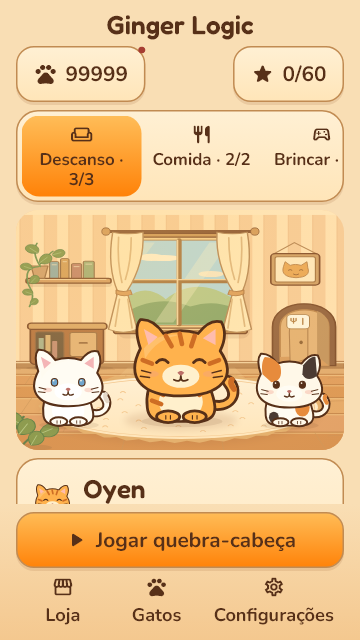
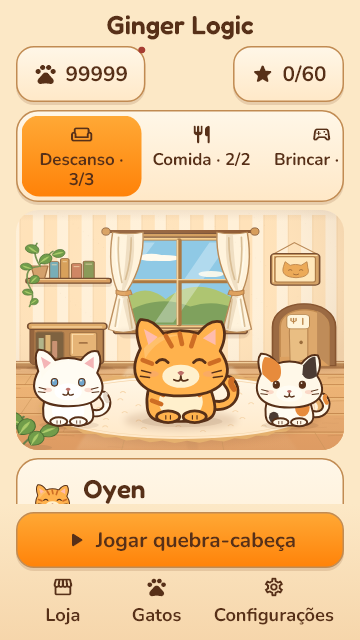
style: add material lighting and restore lounge color contrast

diff --git a/lib/game/render/v2/lounge_lighting.dart b/lib/game/render/v2/lounge_lighting.dart
@@ -1,0 +1,124 @@
+import 'dart:ui';
+
+/// Directional light and restrained material grain in the 390-unit room.
+/// Painted behind decor/actors so blue glass, foliage and fur keep their color.
+void paintLoungeLighting(Canvas canvas) {
+  const wall = Rect.fromLTWH(0, 0, 390, 257);
+  final plaster = Path()
+    ..fillType = PathFillType.evenOdd
+    ..addRect(wall)
+    ..addRRect(
+      RRect.fromRectAndRadius(
+        const Rect.fromLTWH(130, 48, 130, 140),
+        const Radius.circular(3),
+      ),
+    );
+  canvas.save();
+  canvas.clipPath(plaster);
+  canvas.drawRect(
+    wall,
+    Paint()
+      ..shader = Gradient.radial(
+        const Offset(150, 84),
+        275,
+        [
+          const Color(0x22FFFBEE),
+          const Color(0x00FFFBEE),
+          const Color(0x2384583E),
+        ],
+        [0, .5, 1],
+      ),
+  );
+  canvas.drawRect(
+    const Rect.fromLTWH(0, 0, 390, 18),
+    Paint()
+      ..shader = Gradient.linear(const Offset(0, 0), const Offset(0, 18), [
+        const Color(0x187A4A2B),
+        const Color(0x007A4A2B),
+      ]),
+  );
+  final plasterGrain = Paint()..color = const Color(0x11875D38);
+  for (var i = 0; i < 180; i++) {
+    final x = (i * 97.123 + 7) % 390;
+    final y = (i * 47.791 + 13) % 257;
+    canvas.drawCircle(Offset(x, y), i.isEven ? .45 : .7, plasterGrain);
+  }
+  canvas.restore();
+
+  const floor = Rect.fromLTWH(0, 253, 390, 137);
+  canvas.save();
+  canvas.clipRect(floor);
+  canvas.drawRect(
+    floor,
+    Paint()
+      ..shader = Gradient.linear(
+        const Offset(0, 257),
+        const Offset(0, 390),
+        [
+          const Color(0x24854B2F),
+          const Color(0x00854B2F),
+          const Color(0x16854B2F),
+        ],
+        [0, .22, 1],
+      ),
+  );
+  final sun = Path()
+    ..moveTo(134, 254)
+    ..lineTo(257, 254)
+    ..lineTo(335, 390)
+    ..lineTo(71, 390)
+    ..close();
+  canvas.drawPath(
+    sun,
+    Paint()
+      ..shader = Gradient.linear(
+        const Offset(190, 255),
+        const Offset(220, 390),
+        [const Color(0x50FFF6DC), const Color(0x0CFFF6DC)],
+      )
+      ..maskFilter = const MaskFilter.blur(BlurStyle.normal, 2),
+  );
+  final mullion = Path()
+    ..moveTo(191, 254)
+    ..lineTo(197, 254)
+    ..lineTo(217, 390)
+    ..lineTo(204, 390)
+    ..close();
+  canvas.drawPath(
+    mullion,
+    Paint()
+      ..color = const Color(0x128F6747)
+      ..maskFilter = const MaskFilter.blur(BlurStyle.normal, 1.5),
+  );
+  final grain = Paint()
+    ..color = const Color(0x239A633B)
+    ..style = PaintingStyle.stroke
+    ..strokeWidth = .7
+    ..strokeCap = StrokeCap.round;
+  for (var i = 0; i < 24; i++) {
+    final x = (i * 67.31) % 390;
+    final y = 263 + (i * 19.37) % 123;
+    canvas.drawPath(
+      Path()
+        ..moveTo(x, y)
+        ..cubicTo(x + 4, y - 1.5, x + 12, y + 1.5, x + 19, y),
+      grain,
+    );
+  }
+  canvas.restore();
+
+  // Contact shadows establish the cabinet, window sill and doorway as depth
+  // planes. Their illustrations are painted over these soft silhouettes.
+  final shade = Paint()
+    ..color = const Color(0x2E75492E)
+    ..maskFilter = const MaskFilter.blur(BlurStyle.normal, 4);
+  canvas.drawOval(const Rect.fromLTWH(15, 250, 98, 11), shade);
+  canvas.drawRRect(
+    RRect.fromRectAndRadius(
+      const Rect.fromLTWH(122, 197, 154, 5),
+      const Radius.circular(3),
+    ),
+    shade,
+  );
+  canvas.drawOval(const Rect.fromLTWH(304, 249, 80, 10), shade);
+}

diff --git a/lib/screens/room/home_scene.dart b/lib/screens/room/home_scene.dart
@@ -10,6 +10,7 @@ import '../../game/model/home_routine.dart';
 import '../../game/model/kitties.dart';
 import '../../game/render/v2/art_pack.dart';
 import '../../game/render/v2/cat_rig.dart';
+import '../../game/render/v2/lounge_lighting.dart';
 import '../../l10n/l10n.dart';
 import '../../l10n/names.dart';
 import '../../theme/ko_ui.dart';
@@ -284,22 +285,13 @@ class _RoomLayers extends CustomPainter {
   void paint(Canvas canvas, Size size) {
     canvas.save();
     canvas.scale(size.width / 390, size.height / 390);
-    for (final layer in ['wall', 'floor', 'decor']) {
+    for (final layer in ['wall', 'floor']) {
       pack.paint(canvas, 'rooms/${area.name}-$layer');
     }
     if (area == HomeArea.santai) {
-      const room = Rect.fromLTWH(0, 0, 390, 390);
-      canvas.drawRect(
-        room,
-        Paint()
-          ..shader = const RadialGradient(
-            center: Alignment(-.3, -.6),
-            radius: 1.3,
-            colors: [Color(0x33FFD075), Color(0x00FFD075), Color(0x248E512D)],
-            stops: [0, .55, 1],
-          ).createShader(room),
-      );
+      paintLoungeLighting(canvas);
     }
+    pack.paint(canvas, 'rooms/${area.name}-decor');
     // The lounge rug is structural, not an unowned catalogue purchase.
     if (area == HomeArea.santai || area == HomeArea.rawat) {
       const rug = Rect.fromLTWH(28, 265, 336, 112);

diff --git a/lib/theme/ko_ui.dart b/lib/theme/ko_ui.dart
@@ -18,13 +18,13 @@ abstract final class KoUi {
   static const danger = Color(0xFFA63D32);
   static const shadow = Color(0x33573018);
   static const scrim = Color(0x99573018);
-  static const homeBackground = Color(0xFFF9DEB4);
-  static const homePaper = Color(0xFFFFF0D4);
-  static const homeCream = Color(0xFFFFE5B8);
-  static const homePeach = Color(0xFFF4C88F);
+  static const homeBackground = Color(0xFFFCE8C6);
+  static const homePaper = Color(0xFFFFF7E8);
+  static const homeCream = Color(0xFFFFE8C7);
+  static const homePeach = Color(0xFFF6D6AB);
   static const homeLine = Color(0xFFC18B52);
-  static const homeShade = Color(0x2BA2673E);
-  static const homeGold = Color(0xFFFFBD58);
+  static const homeShade = Color(0x3395633F);
+  static const homeGold = Color(0xFFFFA936);
   static const homeFloor = Color(0xFFE5B16E);
   static const homeLeaf = Color(0xFF869D60);
   static const s4 = 4.0, s8 = 8.0, s12 = 12.0, s16 = 16.0, s24 = 24.0;

diff --git a/tool/art_v2/lounge.py b/tool/art_v2/lounge.py
@@ -1,6 +1,6 @@
 """Original vector lounge architecture, kept separate from owned furniture."""
 
-INK = '#88542F'
+INK = '#795033'
 
 
 def p(d, fill='none', stroke=INK, width=2):
@@ -16,37 +16,40 @@ def e(x, y, rx, ry, fill, stroke='none', width=1):
 
 
 def leaf(x, y, angle, scale=1):
-    art = p('M0 0 C-19 -1 -20 -19 -9 -20 C3 -20 7 -8 0 0 Z', '#8D9B4F', '#678448', 1.2)
-    art += p('M0 0 L-9 -13', stroke='#B9C883', width=1)
+    art = p('M0 0 C-19 -1 -20 -19 -9 -20 C3 -20 7 -8 0 0 Z', '#719D4A', '#4D7134', 1.2)
+    art += p('M-1 -2 Q-10 -7 -11 -17 Q-5 -13 -1 -2 Z', '#A5C864', 'none')
+    art += p('M0 0 L-9 -13', stroke='#B0CC72', width=1)
     return f'<g transform="translate({x} {y}) rotate({angle}) scale({scale})">{art}</g>'
 
 
 def lounge_layers():
-    wall = r(0, 0, 390, 260, '#F8CC96', 0, 'none')
+    wall = r(0, 0, 390, 260, '#FFE2B9', 0, 'none')
     for x in range(-9, 390, 29):
-        wall += r(x, 0, 13, 258, '#FFE0AD', 0, 'none')
-        wall += p(f'M{x+14} 0 L{x+14} 256', stroke='#EDBE88', width=.7)
-    wall += r(0, 0, 390, 8, '#FFE5B7', 0, 'none')
+        wall += r(x, 0, 13, 258, '#FFF0D8', 0, 'none')
+        wall += p(f'M{x+14} 0 L{x+14} 256', stroke='#EFCFA6', width=.7)
+    wall += r(0, 0, 390, 8, '#FFF1DA', 0, 'none')
     wall += '<g opacity="0.12">' + r(121, 44, 157, 165, '#7A482B', 11, 'none') + '</g>'
     wall += r(120, 38, 150, 161, '#D19A58', 9) + r(126, 44, 138, 149, '#F7CE8B', 6)
-    wall += r(131, 49, 128, 138, '#BAD7D5', 4, '#A87645', 1.4)
-    wall += p('M132 143 Q154 118 178 145 Q215 105 258 144 L258 186 L132 186 Z', '#B9C889', 'none')
-    wall += p('M132 165 Q171 136 207 157 Q235 145 258 159 L258 186 L132 186 Z', '#8FA86B', 'none')
-    wall += e(161, 77, 15, 6, '#FFEEC9') + e(176, 78, 18, 5, '#FFEEC9') + e(232, 104, 15, 5, '#F9E6C0')
-    wall += '<g opacity="0.34">' + p('M139 53 L165 53 L133 111 L133 84 Z M230 53 L253 53 L187 183 L165 183 Z', '#FFF1C7', 'none') + '</g>'
+    wall += r(131, 49, 128, 138, '#8FC9E5', 4, '#A87645', 1.4)
+    wall += p('M132 143 Q154 118 178 145 Q215 105 258 144 L258 186 L132 186 Z', '#AEC571', 'none')
+    wall += p('M132 165 Q171 136 207 157 Q235 145 258 159 L258 186 L132 186 Z', '#7FA15D', 'none')
+    wall += e(161, 77, 15, 6, '#FFFAED') + e(176, 78, 18, 5, '#FFFAED') + e(232, 104, 15, 5, '#F6F7EB')
+    wall += '<g opacity="0.34">' + p('M139 53 L165 53 L133 111 L133 84 Z M230 53 L253 53 L187 183 L165 183 Z', '#F4FBFF', 'none') + '</g>'
     wall += p('M194 49 L194 186 M132 116 L258 116', stroke='#AB7943', width=6)
     wall += p('M192 49 L192 186 M132 113 L258 113', stroke='#F5D39C', width=2)
     wall += r(116, 192, 159, 9, '#BD874C', 4) + p('M121 194 L269 194', stroke='#F4CE94', width=2)
     wall += p('M110 35 L281 35', stroke='#8F5B34', width=5)
     wall += e(107, 35, 5, 6, '#D79D5B', INK) + e(284, 35, 5, 6, '#D79D5B', INK)
     for mirror in [False, True]:
-        curtain = p('M115 36 Q132 41 151 36 Q153 87 132 132 L144 194 Q128 203 110 194 L121 133 Q108 92 115 36 Z', '#FFE6B3', '#BA8B58', 1.7)
-        curtain += p('M122 44 Q120 84 126 118 M137 45 Q137 84 130 113 M123 145 L118 189 M133 145 L138 192', stroke='#E0B77D', width=2)
+        curtain = p('M115 36 Q132 41 151 36 Q153 87 132 132 L144 194 Q128 203 110 194 L121 133 Q108 92 115 36 Z', '#FFF3DC', '#BA8B58', 1.7)
+        curtain += '<g opacity="0.22">' + p('M140 40 Q143 91 129 130 L133 136 L143 193 L135 196 L125 137 Q131 84 132 41 Z', '#B79265', 'none') + '</g>'
+        curtain += '<g opacity="0.65">' + p('M118 43 Q116 82 124 120 L121 86 Z M123 143 L117 189 L121 192 L128 143 Z', '#FFFCF0', 'none') + '</g>'
+        curtain += p('M122 44 Q120 84 126 118 M137 45 Q137 84 130 113 M123 145 L118 189 M133 145 L138 192', stroke='#D8BD94', width=2)
         curtain += p('M119 130 Q128 135 136 130 L138 137 Q127 142 119 136 Z', '#DFA15D', '#BA8148', 1.4)
         wall += f'<g transform="translate(390 0) scale(-1 1)">{curtain}</g>' if mirror else curtain
     floor = r(0, 253, 390, 137, '#D99453', 0, 'none')
     ys = [253, 267, 284, 305, 331, 361, 397]
-    shades = ['#E4AE70', '#E2A05F', '#DE9A56', '#E7AB69', '#E4A369', '#DA9452']
+    shades = ['#F2C18A', '#EFB97B', '#EDB375', '#EDB67B', '#E8AB70', '#E6A368']
     for row, (top, bottom) in enumerate(zip(ys, ys[1:])):
         floor += r(0, top, 390, bottom-top, shades[row], 0, 'none')
         floor += p(f'M0 {top} L390 {top}', stroke='#B97C42', width=1.1)
@@ -57,9 +60,9 @@ def lounge_layers():
             floor += p(f'M{x+16} {top+6} q18 -2 34 0', stroke='#CE9458', width=.7)
     floor += r(0, 246, 390, 11, '#C38E57', 0, '#AC7544', 1)
     floor += p('M0 248 L390 248', stroke='#F4D09C', width=2)
-    floor += '<g opacity="0.14">' + p('M133 256 L260 256 L326 345 L66 345 Z', '#FFE4AA', 'none') + '</g>'
+    # Window light is applied by the runtime before the room decor, not as a tint.
     decor = '<g opacity="0.12">' + r(15, 116, 99, 9, '#74472B', 4, 'none') + '</g>'
-    for x,y,w,h,color in [(40,84,11,29,'#9BADA0'),(53,79,10,34,'#D8A15B'),(66,87,12,26,'#C5876A'),(80,83,13,30,'#A5AF76')]:
+    for x,y,w,h,color in [(40,84,11,29,'#78AEB7'),(53,79,10,34,'#D8A15B'),(66,87,12,26,'#CF8664'),(80,83,13,30,'#8A9A59')]:
         decor += r(x,y,w,h,color,2,'#966C45',1.3) + p(f'M{x+3} {y+5} L{x+w-3} {y+5}',stroke='#F4DCB2',width=1)
     decor += r(12,111,101,8,'#D9A063',3) + p('M16 113 L107 113',stroke='#F3CD95',width=1.5)
     decor += p('M18 91 L38 91 L34 111 L22 111 Z','#D4A16C','#A47446',1.6)
@@ -67,21 +70,25 @@ def lounge_layers():
     for x,y,a,s in [(26,70,-15,.78),(28,86,80,.8),(43,73,105,.7),(19,96,-30,.65),(17,119,70,.65),(20,137,-30,.58),(17,153,80,.52)]:
         decor += leaf(x,y,a,s)
     decor += '<g opacity="0.12">' + e(64,257,52,5,'#6C4529') + '</g>'
-    decor += r(17,189,87,62,'#B97843',6) + r(14,184,94,10,'#DEAA68',4)
+    decor += r(17,189,87,62,'#BB8650',6) + r(14,184,94,10,'#DEAA68',4)
+    decor += p('M17 195 L22 195 L22 246 L101 246 L101 251 L21 251 Q17 251 17 245 Z','#95653E','none')
+    decor += p('M19 190 L102 190',stroke='#FFE0AE',width=1.5)
     decor += r(23,198,34,43,'#7E6240',3,'#9E7146',1.3)
     for x,y,color in [(27,208,'#B1B48A'),(35,203,'#DFB575'),(43,213,'#CA9273')]:
         decor += r(x,y,6,27,color,1,'none')
     decor += r(64,199,32,39,'#E6B476',3,'#A67747',1.5) + p('M76 216 L84 216',stroke='#A57445',width=3)
+    decor += p('M67 202 L92 202 M67 202 L67 233',stroke='#FFE1AE',width=1.3)
     decor += p('M25 251 L24 256 M96 251 L97 256',stroke='#8B603B',width=4)
     decor += p('M307 71 L331 53 L357 71',stroke='#B88754',width=1.6)
     decor += r(303,71,58,51,'#D5A367',5) + r(308,76,48,41,'#FFE7BA',3,'#AD7B46',1.4)
     decor += p('M318 92 L320 84 L326 90 Q332 87 339 90 L346 84 L347 94 Q351 109 333 110 Q314 109 318 92 Z','#ECAA58','#B67D43',1.1)
+    decor += p('M306 74 L358 74 M306 74 L306 117',stroke='#FFE1AC',width=1.4)
     decor += p('M324 98 Q326 96 328 98 M337 98 Q339 96 341 98 M330 104 Q333 107 336 104',stroke='#9B6635',width=1.2)
     decor += p('M305 253 L305 190 C305 140 380 140 380 190 L380 253 Z','#9B6A43','#875530',2)
-    decor += p('M314 253 L314 190 C314 153 372 153 372 190 L372 253 Z','#E8B678','#C28B50',2)
-    decor += p('M358 164 Q372 172 372 190 L372 253 L358 242 Z','#C99960','none')
+    decor += p('M314 253 L314 190 C314 153 372 153 372 190 L372 253 Z','#DDA86C','#C28B50',2)
+    decor += p('M358 164 Q372 172 372 190 L372 253 L358 242 Z','#BF8C59','none')
     decor += p('M314 239 L358 237 L372 253 L314 253 Z','#DCA060','none')
-    decor += p('M326 251 L325 199 Q325 174 347 172 L347 241 Z','#E6B373','#B78550',1.3) + e(339,215,2,3,'#9A6C3C')
+    decor += p('M326 251 L325 199 Q325 174 347 172 L347 241 Z','#E9BE83','#B78550',1.3) + e(339,215,2,3,'#9A6C3C')
     decor += r(322,170,27,23,'#FFF4D9',5,'#B3834B',1.2)
     decor += p('M330 176 L330 184 M327 176 L327 180 Q330 183 333 180 L333 176 M341 176 L341 186',stroke='#BA8447',width=1.6)
     decor += '<g opacity="0.14">' + e(8,386,35,6,'#6D5536') + '</g>'

diff --git a/docs/design-v2/home/REVIEW.md b/docs/design-v2/home/REVIEW.md
@@ -27,20 +27,28 @@ Perbandingan runtime 390×844: [sebelum](santai-sebelum-polish-id.png) dan
 diperbarui. Ini tetap bahan tinjauan, bukan persetujuan visual otomatis.
 
 Sumber ilustrasi tambahan: `tool/art_v2/lounge.py`, dipanggil generator utama.
-Inventaris tetap 209 aset vektor, 298.538 byte sumber, 108.641 byte ZIP menurut
+Inventaris tetap 209 aset vektor, 300.571 byte sumber, 108.833 byte ZIP menurut
 generator; raster/atlas sumber tetap nol. Lisensi mengikuti paket seni v2.
 
-### Revisi palet hangat
+### Cahaya, bahan, dan variasi warna
 
-Pemilik repo meminta warna lebih hangat setelah perapian bentuk diterima
-sebagai arah. Latar rumah kini krem madu `#F9DEB4`, kartu ivory madu
-`#FFF0D4` → `#FFE5B8`, dan panel bawah peach `#F4C88F`. Dinding Santai,
-tirai, kayu karamel serta cahaya sore memakai palet yang sama. Warna bulu
-kucing tetap agar sembilan identitas mudah dikenali. Perbandingan:
-[sebelum perubahan warna](santai-sebelum-warna-hangat-id.png) dan
-[palet terbaru](santai-baru-id.png).
+Acuan tetap konsep A, yang ditunjukkan kembali pemilik repo pada screenshot
+referensi. Langit biru dan tanaman hijau dipulihkan agar kayu jingga serta
+krem mempunyai pembanding warna. Tirai memakai lipatan gelap dan highlight
+ivory; kabinet dan bingkai mempunyai sisi terang serta sisi bayangan.
 
-Kontras teks cokelat `#573018` terhadap permukaan rumah baru 7,33–10,14:1;
+Lapisan kuning seluruh ruangan dihapus. `lounge_lighting.dart` menggambar
+cahaya jendela terarah, bayangan kisi, bayangan kontak dan grain dinding/kayu.
+Pencahayaan digambar sebelum dekor dan aktor; kaca biru, daun, dan bulu tidak
+terkena tint global. Tekstur berada di lapisan latar statis yang sudah memakai
+RepaintBoundary. Warna bulu tetap agar sembilan identitas mudah dikenali.
+
+Latar UI kini `#FCE8C6`, kartu ivory `#FFF7E8` → `#FFE8C7`, dan panel peach
+`#F6D6AB`. Perbandingan: [versi kuning sebelumnya](santai-sebelum-cahaya-id.png)
+dan [ilustrasi terbaru](santai-baru-id.png). Percobaan palet lebih awal tetap
+tersedia pada [pembanding awal](santai-sebelum-warna-hangat-id.png).
+
+Kontras teks cokelat `#573018` terhadap permukaan krem/peach baru 8,21–10,71:1;
 ujung oranye tombol utama tetap 4,59:1. Pemeriksaan dilakukan dari luminans
 warna, bukan klaim audit aksesibilitas perangkat. Perubahan palet diverifikasi
 dengan 64 test rumah/komponen UI, pengecekan aset dan build debug; hasil suite
@@ -92,7 +100,7 @@ Render ulang:
 
 ## Verifikasi
 
-Hasil akhir: `flutter analyze` tanpa issue; format 262 berkas bersih;
+Hasil akhir: `flutter analyze` tanpa issue; format 263 berkas bersih;
 `flutter test --concurrency=2 --timeout=2m` **2.905 lulus, 135 skip historis**.
 Ada 35 test rumah baru, termasuk render ulang screenshot, empat tab terlihat,
 target sentuh kucing tidak tumpang tindih dan tab aktif terlihat pada teks besar.

diff --git a/docs/DESIGN_NOTES.md b/docs/DESIGN_NOTES.md
@@ -4,6 +4,12 @@ Dimulai ulang pada **8 November 2026** bersama roadmap baru. Catatan langkah lam
 
 ## Integrasi beranda v2 — 9 November 2026
 
+Revisi ilustrasi berdasarkan perbandingan langsung konsep A: pulihkan biru
+jendela dan hijau daun, gunakan highlight/lipatan pada bahan, serta cahaya
+terarah dan bayangan kontak. Hapus tint kuning global. Tekstur dinding/lantai
+berada pada latar statis; warna karakter dan aturan model dipertahankan.
+[Pembanding ilustrasi](design-v2/home/REVIEW.md) diperbarui di PR #44.
+
 Revisi warna berikutnya atas permintaan pemilik repo: krem madu dan ivory
 hangat untuk rumah/kartu, kayu karamel serta cahaya sore untuk Santai. Token
 khusus rumah menjaga identitas warna kucing dan palet dasar layar lain.
